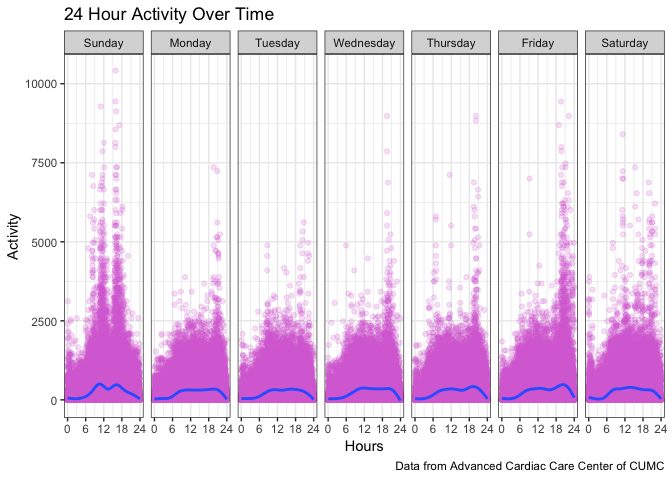
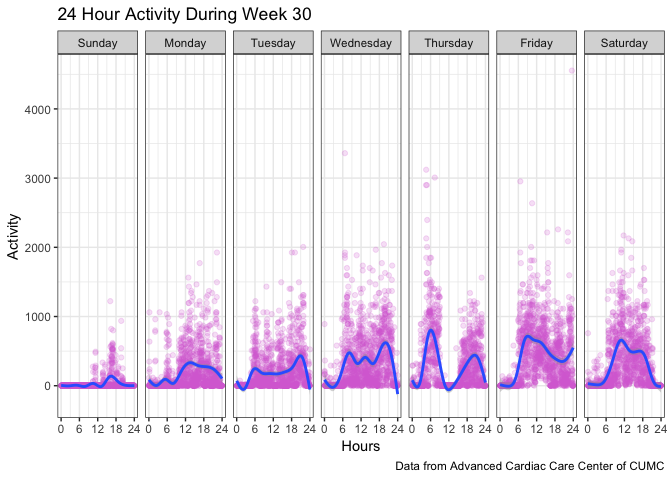
changed plots to summarize only week 30 and wednesday of week 30

diff --git a/p8105_mtp_jih2119.md b/p8105_mtp_jih2119.md
@@ -1,5 +1,6 @@
 Midterm Project
 ================
+Justin Hsie
 
 #### Setup
 
@@ -52,8 +53,6 @@ year_plot =
 year_plot
 ```
 
-    ## `geom_smooth()` using method = 'loess' and formula 'y ~ x'
-
 ![](p8105_mtp_jih2119_files/figure-markdown_github/total_act_per_day_over_time-1.png)
 
 ### Average Activity During Week Over Time
@@ -68,18 +67,18 @@ week_plot =
     y = "Average Activity",
     caption = "Data from Advanced Cardiac Care Center of CUMC"
   ) +
-  theme_bw() + 
-  theme(legend.position = "bottom")
+  theme_bw()
 week_plot
 ```
 
 ![](p8105_mtp_jih2119_files/figure-markdown_github/all_weeks_avg_per_day-1.png)
 
-### 24 Hour Activity Throughout Week Over Time
+### 24 Hour Activity During Week 30
 
 ``` r
 week_hour_act = accel_data %>% 
   gather(key = daily_act, value = activity, activity_1:activity_1440) %>%
+  filter(week == 30) %>% 
   mutate(daily_act = str_replace(daily_act, "activity_", "")) %>% 
   mutate(daily_act = as.numeric(daily_act) / 60)
 
@@ -90,7 +89,7 @@ week_hour_plot =
   facet_grid(. ~ day) +
   geom_smooth() +
   labs(
-    title = "24 Hour Activity Over Time",
+    title = "24 Hour Activity During Week 30",
     x = "Hours",
     y = "Activity",
     caption = "Data from Advanced Cardiac Care Center of CUMC"
@@ -99,16 +98,14 @@ week_hour_plot =
 week_hour_plot
 ```
 
-    ## `geom_smooth()` using method = 'gam' and formula 'y ~ s(x, bs = "cs")'
-
 ![](p8105_mtp_jih2119_files/figure-markdown_github/24_hour_week-1.png)
 
-### Example 24 Hour Activity on Sunday, Week 45
+### Example 24 Hour Activity on Wednesday, Week 30
 
 ``` r
 sunday_act = accel_data %>% 
   gather(key = daily_act, value = activity, activity_1:activity_1440) %>%
-  filter(day == "Sunday", week == 45) %>% 
+  filter(day == "Wednesday", week == 30) %>% 
   mutate(daily_act = str_replace(daily_act, "activity_", "")) %>% 
   mutate(daily_act = as.numeric(daily_act) / 60)
 
@@ -117,7 +114,7 @@ sunday_plot = ggplot(sunday_act, aes(x = daily_act, y = activity)) +
   scale_x_continuous(breaks = seq(0, 24, by = 2)) +
   geom_smooth() +
   labs(
-    title = "24 Hour Activity Sunday, Week 45",
+    title = "24 Hour Activity Wednesday, Week 30",
     x = "Hours",
     y = "Activity",
     caption = "Data from Advanced Cardiac Care Center of CUMC"
@@ -125,8 +122,6 @@ sunday_plot = ggplot(sunday_act, aes(x = daily_act, y = activity)) +
   theme_bw() 
 sunday_plot
 ```
-
-    ## `geom_smooth()` using method = 'gam' and formula 'y ~ s(x, bs = "cs")'
 
 ![](p8105_mtp_jih2119_files/figure-markdown_github/24_hour_sunday-1.png)
 
@@ -136,7 +131,7 @@ wordcountaddin::text_stats("p8105_mtp_jih2119.Rmd")
 
 | Method          | koRpus      | stringi       |
 |:----------------|:------------|:--------------|
-| Word count      | 62          | 56            |
-| Character count | 372         | 371           |
+| Word count      | 61          | 54            |
+| Character count | 364         | 363           |
 | Sentence count  | 3           | Not available |
 | Reading time    | 0.3 minutes | 0.3 minutes   |
